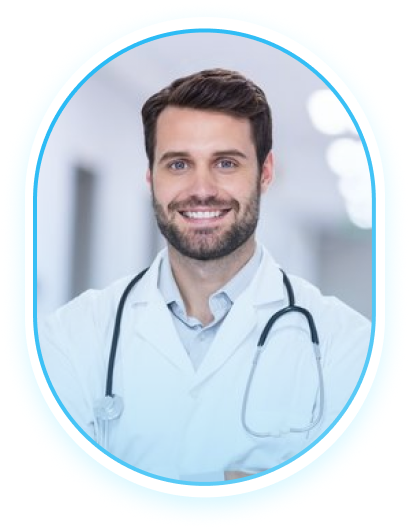
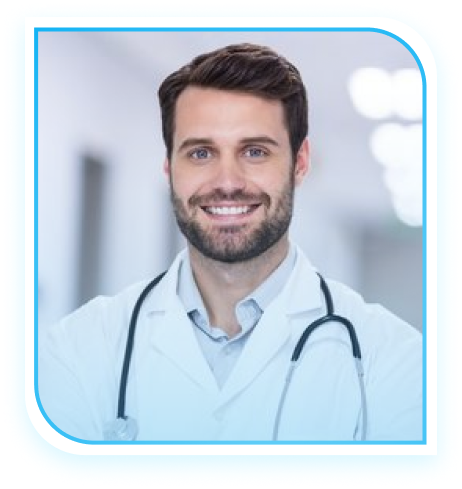
baru

diff --git a/src/components/Blog.js b/src/components/Blog.js
@@ -19,55 +19,59 @@ const Blog = () =>{
           <div className="container">
             <div className='flex flex-wrap'>
               <div className='w-full lg:w-1/2 text-start'>
-                <h1 className="font-semibold text-darkblue lg:text-lg">-Artikel.</h1>
-                <h1 className="text-4xl lg:text-5xl font-bold text-black mr-2 lg:mr-4">Temukan Hal Menarik Seputar Gigi</h1>
-                <div className="card card-compact w-11/12 lg:w-96 mt-8 mx-auto bg-white shadow-sm mb-4 transition duration-300 ease-in-out hover:shadow-lg">
-                  <div className="w-full h-56 mask-square ring-white">
-                    <img src="https://placeimg.com/400/300/arch" alt="BlogImage" />
-                  </div>
-                  <div className="card-body text-center">
-                    <p className='pt-2 text-base text-black'>2 Oktober 2022</p>
-                    <h2 className="text-3xl font-semibold text-black">Cara Menjaga Kesehatan Gigi</h2>
-                    <div className='mx-auto py-3'>
-                    <svg width="118" height="2" viewBox="0 0 118 2" fill="none" xmlns="http://www.w3.org/2000/svg">
-                      <rect width="118" height="2" fill="url(#paint0_linear_414_494)"/>
-                      <defs>
-                        <linearGradient id="paint0_linear_414_494" x1="116" y1="0" x2="0" y2="0" gradientUnits="userSpaceOnUse">
-                          <stop stop-color="#D3D3D3" stop-opacity="0"/>
-                          <stop offset="0.501157" stop-color="#D3D3D3"/>
-                          <stop offset="1" stop-color="#D3D3D3" stop-opacity="0"/>
-                        </linearGradient>
-                      </defs>
-                    </svg>
+                <h1 data-aos="fade-up" className="font-semibold text-darkblue lg:text-lg aos-init aos-animate">-Artikel.</h1>
+                <h1 data-aos="fade-up" className="text-4xl lg:text-5xl font-bold text-black mr-2 lg:mr-4 aos-init aos-animate">Temukan Hal Menarik Seputar Gigi</h1>
+                <div data-aos="fade-up-right" className='aos-init aos-animate'>
+                  <div className="w-11/12 lg:w-96 mt-8 mx-auto rounded-tl-3xl rounded-br-3xl bg-white bg-opacity-50 shadow-sm transition ease-in-out delay-150 hover:-translate-y-1 hover:scale-100 duration-300 hover:shadow-lg">
+                    <div className="w-full h-56 mask-square rounded-tl-3xl rounded-br-3xl ring-white">
+                      <img src="https://placeimg.com/400/300/arch" alt="BlogImage" />
                     </div>
-                    <p className='pb-4'>Lorem ipsum dolor sit amet, consectetur adipiscing elit. Arcu cursus enim, bibendum sit faucibus praesent in cras.</p>
+                    <div className="card-body text-center">
+                      <p className='pt-2 text-base text-black'>2 Oktober 2022</p>
+                      <h2 className="text-3xl font-semibold text-black">Cara Menjaga Kesehatan Gigi</h2>
+                      <div className='mx-auto py-3'>
+                      <svg width="118" height="2" viewBox="0 0 118 2" fill="none" xmlns="http://www.w3.org/2000/svg">
+                        <rect width="118" height="2" fill="url(#paint0_linear_414_494)"/>
+                        <defs>
+                          <linearGradient id="paint0_linear_414_494" x1="116" y1="0" x2="0" y2="0" gradientUnits="userSpaceOnUse">
+                            <stop stop-color="#D3D3D3" stop-opacity="0"/>
+                            <stop offset="0.501157" stop-color="#D3D3D3"/>
+                            <stop offset="1" stop-color="#D3D3D3" stop-opacity="0"/>
+                          </linearGradient>
+                        </defs>
+                      </svg>
+                      </div>
+                      <p className='pb-4'>Lorem ipsum dolor sit amet, consectetur adipiscing elit. Arcu cursus enim, bibendum sit faucibus praesent in cras.</p>
+                    </div>
                   </div>
                 </div>
               </div>
               <div className='w-full lg:w-1/2 lg:px-24'>
-                <div className="card card-compact w-11/12 lg:w-96 mt-4 mx-auto bg-white shadow-sm mb-4 transition duration-300 ease-in-out hover:shadow-lg">
-                  <div className="w-full h-56 mask-square ring-white">
-                    <img src="https://placeimg.com/400/300/arch" alt="BlogImage" />
-                  </div>
-                  <div className="card-body text-center">
-                    <p className='pt-2 text-base text-black'>2 Oktober 2022</p>
-                    <h2 className="text-3xl font-semibold text-black">Cara Menjaga Kesehatan Gigi</h2>
-                    <div className='mx-auto py-3'>
-                    <svg width="118" height="2" viewBox="0 0 118 2" fill="none" xmlns="http://www.w3.org/2000/svg">
-                      <rect width="118" height="2" fill="url(#paint0_linear_414_494)"/>
-                      <defs>
-                        <linearGradient id="paint0_linear_414_494" x1="116" y1="0" x2="0" y2="0" gradientUnits="userSpaceOnUse">
-                          <stop stop-color="#D3D3D3" stop-opacity="0"/>
-                          <stop offset="0.501157" stop-color="#D3D3D3"/>
-                          <stop offset="1" stop-color="#D3D3D3" stop-opacity="0"/>
-                        </linearGradient>
-                      </defs>
-                    </svg>
+                <div data-aos="fade-up-left" className='aos-init aos-animate'>
+                  <div className="w-11/12 lg:w-96 mt-8 mx-auto rounded-tl-3xl rounded-br-3xl bg-white bg-opacity-50 shadow-sm transition ease-in-out delay-150 hover:-translate-y-1 hover:scale-100 duration-300 hover:shadow-lg">
+                    <div className="w-full h-56 mask-square rounded-tl-3xl rounded-br-3xl ring-white">
+                      <img src="https://placeimg.com/400/300/arch" alt="BlogImage" />
                     </div>
-                    <p className='pb-4'>Lorem ipsum dolor sit amet, consectetur adipiscing elit. Arcu cursus enim, bibendum sit faucibus praesent in cras.</p>
+                    <div className="card-body text-center">
+                      <p className='pt-2 text-base text-black'>2 Oktober 2022</p>
+                      <h2 className="text-3xl font-semibold text-black">Cara Menjaga Kesehatan Gigi</h2>
+                      <div className='mx-auto py-3'>
+                      <svg width="118" height="2" viewBox="0 0 118 2" fill="none" xmlns="http://www.w3.org/2000/svg">
+                        <rect width="118" height="2" fill="url(#paint0_linear_414_494)"/>
+                        <defs>
+                          <linearGradient id="paint0_linear_414_494" x1="116" y1="0" x2="0" y2="0" gradientUnits="userSpaceOnUse">
+                            <stop stop-color="#D3D3D3" stop-opacity="0"/>
+                            <stop offset="0.501157" stop-color="#D3D3D3"/>
+                            <stop offset="1" stop-color="#D3D3D3" stop-opacity="0"/>
+                          </linearGradient>
+                        </defs>
+                      </svg>
+                      </div>
+                      <p className='pb-4'>Lorem ipsum dolor sit amet, consectetur adipiscing elit. Arcu cursus enim, bibendum sit faucibus praesent in cras.</p>
+                    </div>
                   </div>
                 </div>
-                <div className='flex justify-center mt-8 lg:mt-12 lg:justify-end'>
+                <div data-aos="fade-up" className='flex justify-center mt-8 lg:mt-12 lg:justify-end aos-init aos-animate'>
                   <Button button={"Lihat Artikel Lainnya"} link={"/blog"}/>
                 </div>
               </div>

diff --git a/src/pages/SistemPakar.js b/src/pages/SistemPakar.js
@@ -61,9 +61,9 @@ const SistemPakar= () => {
                     </span>
                 </div>
                 <div className="container">
-                    <div data-aos="fade-up" className="w-full flex flex-wrap z-20 aos-init aos-animate">
+                    <div data-aos="fade-up" className="w-full flex flex-wrap z-40 aos-init aos-animate">
                         <div className="w-full lg:w-2/6 px-2 pt-6 lg:pt-0">
-                            <div className="card w-full bg-white bg-opacity-50 lg:bg-opacity-30 backdrop-blur-xl border border-white shadow-md">
+                            <div className="card w-full bg-white bg-opacity-50 z-30 lg:bg-opacity-30 backdrop-blur-xl border border-white shadow-md">
                                 <div className="card-body">
                                     <h1 className="text-center text-2xl text-black font-semibold">
                                         Data Pasien

diff --git a/src/components/CardDoctor.js b/src/components/CardDoctor.js
@@ -3,8 +3,8 @@ import { solid, regular } from '@fortawesome/fontawesome-svg-core/import.macro'
 
 const CardDoctor = ({id, profile, name, address}) => {
     return (
-      <div className='mx-auto'>
-          <div className="card card-compact w-44 lg:w-56 bg-white shadow-sm mb-6 transition duration-300 ease-in-out hover:shadow-xl">
+      <div className='mx-auto transition ease-in-out delay-150 hover:-translate-y-1 hover:scale-100 duration-300'>
+          <div className="card card-compact w-44 lg:w-56 bg-white shadow-sm mb-6 hover:shadow-lg">
             <label htmlFor="detail">
               <span className='absolute left-0 mt-8 z-10'>
                 <svg width="52" height="29" viewBox="0 0 52 29" fill="none" xmlns="http://www.w3.org/2000/svg">

diff --git a/src/components/Footer.js b/src/components/Footer.js
@@ -7,8 +7,8 @@ import { Link } from "react-router-dom";
 
 const Footer = () => {
     return (
-        <div>
-            <footer className="footer p-10 z-50 bg-bgfooter shadow-sm backdrop-blur-lg text-black lg:px-24">
+        <div className='bg-background'>
+            <footer className="footer p-10 z-50 bg-bgfooter shadow-sm backdrop-blur-lg rounded-tl-2xl rounded-tr-2xl text-black lg:px-24">
                 <div>
                     <img src={logo} alt="Logo" />
                     <p className='text-start mt-4 mb-4'>Konsultasi dengan kualitas terbaik<br></br>oleh para profesional.</p>

diff --git a/src/components/Kontak.js b/src/components/Kontak.js
@@ -26,7 +26,7 @@ const About = () =>{
               <div className='relative hidden lg:flex'>
                 <img src={Kontak} alt="KontakImage" className='mx-4'/>
               </div>
-              <div className="card card-compact w-full lg:w-2/5 mx-4 bg-white bg-opacity-50 shadow-md aos-init aos-animate">
+              <div className="w-full lg:w-2/5 mx-4 rounded-tl-3xl rounded-br-3xl bg-white bg-opacity-50 shadow-md aos-init aos-animate">
                 <div className="card-body">
                   <form>
                     <div className="form-control w-full max-w-xs mx-auto">

diff --git a/src/components/About.js b/src/components/About.js
@@ -3,7 +3,7 @@ import Button from '../components/Button';
 
 const About = () =>{
     return(
-      <section id="about" className="px-4 pt-40 lg:pt-20 lg:px-20 pb-16">
+      <section id="about" className="px-4 pt-36 lg:pt-20 lg:px-20 pb-16">
           <div className="container">
             <div className="flex flex-wrap">
               <div className="hidden lg:w-1/2 lg:flex">

diff --git a/src/pages/Beranda.js b/src/pages/Beranda.js
@@ -7,8 +7,8 @@ import Kontak from '../components/Kontak';
 
 const Beranda = (props) => {
     return (
-      <div>
-        <div className='bg-background'>
+      <div className='bg-background'>
+        <div>
           <Hero/>
           <About/>
           <Dokter/>
